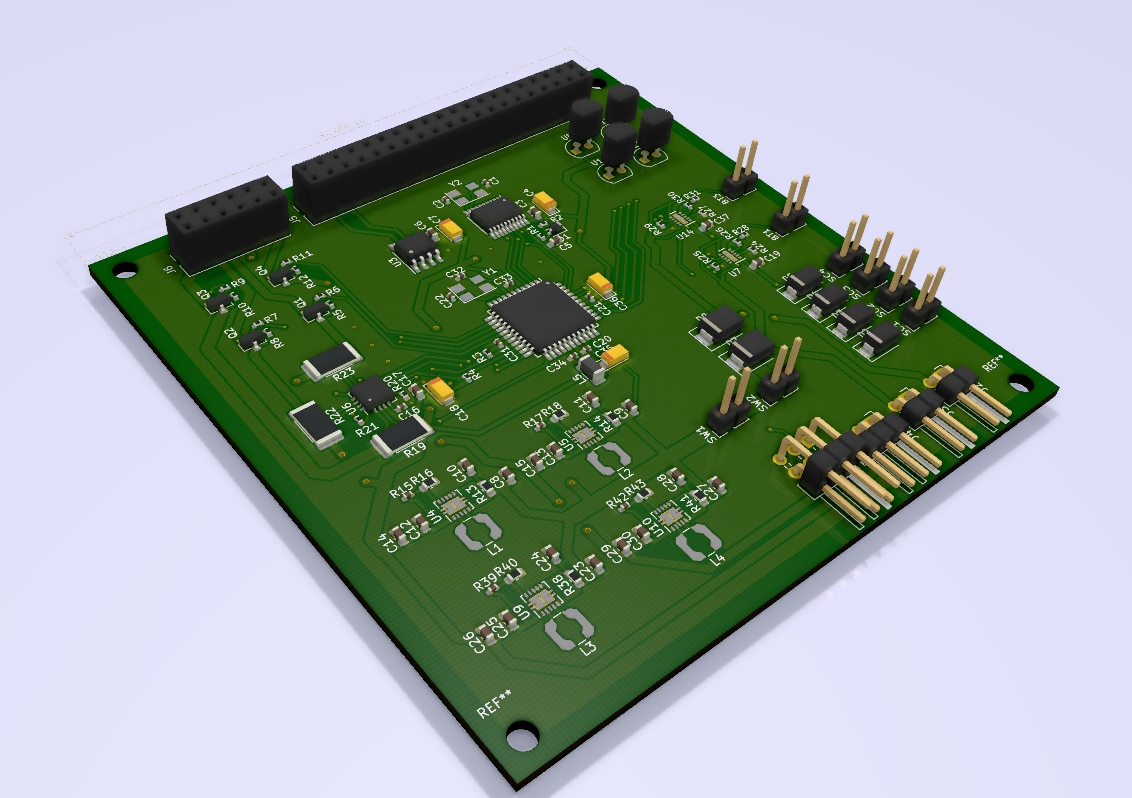
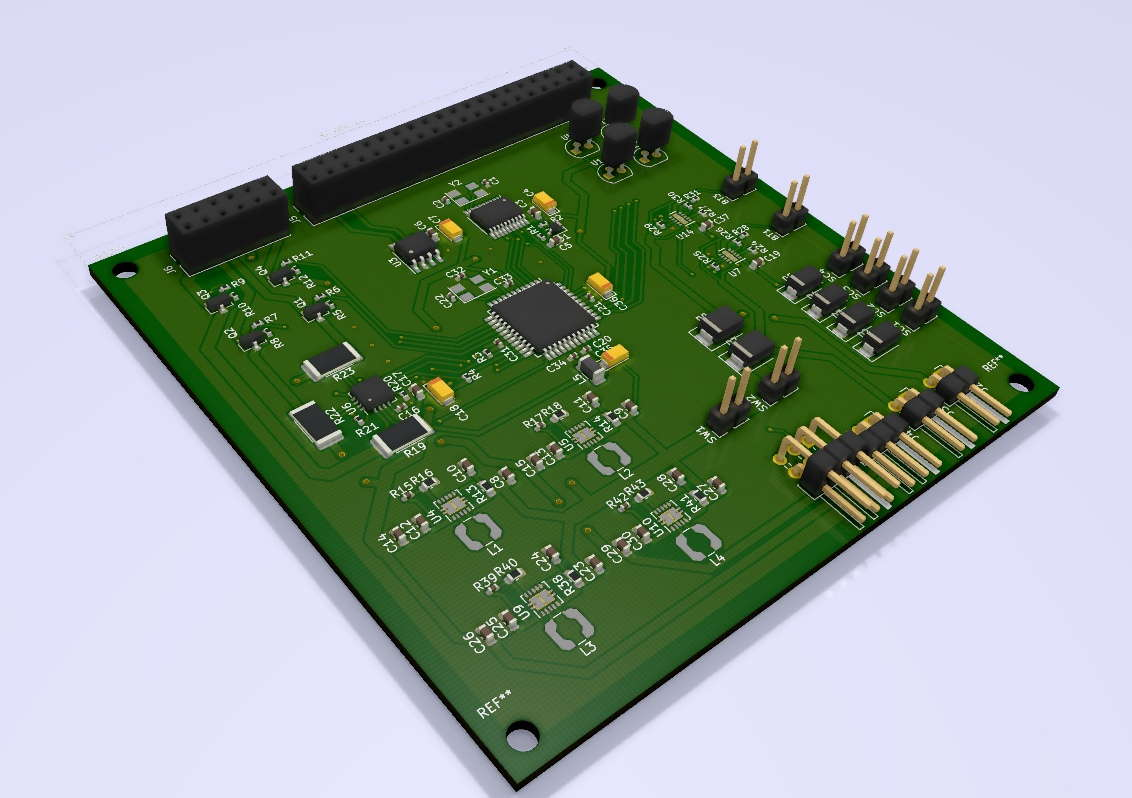
Optimize images

diff --git a/app/templates/index.html b/app/templates/index.html
@@ -17,7 +17,7 @@
 	<h1 class="align-center" style="margin-top: 16px">Проекты</h1>
 	<div class="container-flex flex-col">
 		<div class="project-card">
-			<img src="{{ url_for('static', filename='img/cubesat1.png') }}" class="card-image card-image-odd" />
+			<img src="{{ url_for('static', filename='img/cubesat1.jpg') }}" class="card-image card-image-odd" />
 			<div class="card-content">
 				<div class="card-header">Спутниковая платформа YKTSAT-1U</div>
 				<div class="card-text">
@@ -45,7 +45,7 @@
 			</div>
 		</div>
 		<div class="project-card">
-			<img src="{{ url_for('static', filename='img/ground1.png') }}" class="card-image card-image-odd" />
+			<img src="{{ url_for('static', filename='img/ground1.jpg') }}" class="card-image card-image-odd" />
 			<div class="card-content">
 				<div class="card-header">Наземное оборудование</div>
 				<div class="card-text">

diff --git a/app/templates/base.html b/app/templates/base.html
@@ -21,7 +21,7 @@
 		<div class="navbar">
 			<div class="align-center">
 				<button class="navbar-logo-btn" onclick="location.href='/'">
-					<img src="{{ url_for('static', filename='img/logo.svg') }}" class="navbar-logo-img" />
+					<img src="{{ url_for('static', filename='img/logo-opt.svg') }}" class="navbar-logo-img" />
 				</button>
 				<a href="https://docs.yktaero.space">Документация</a>
 				<a href="/news">Новости</a>
